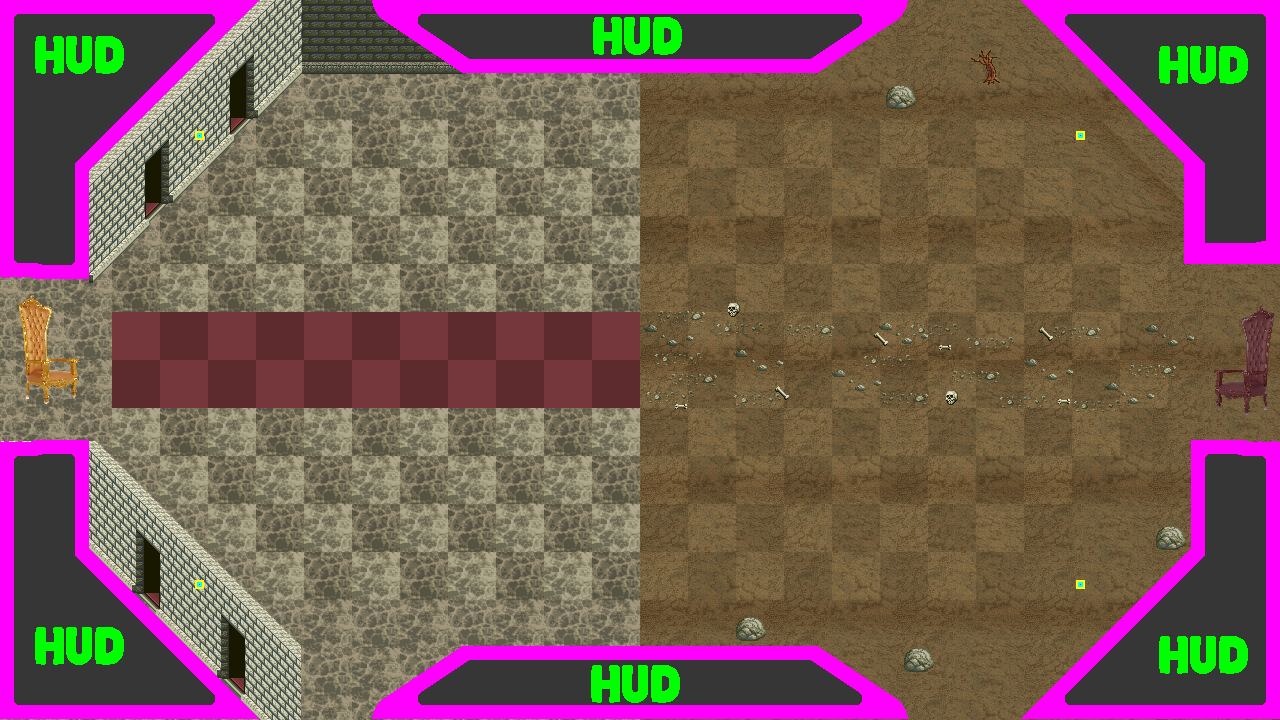
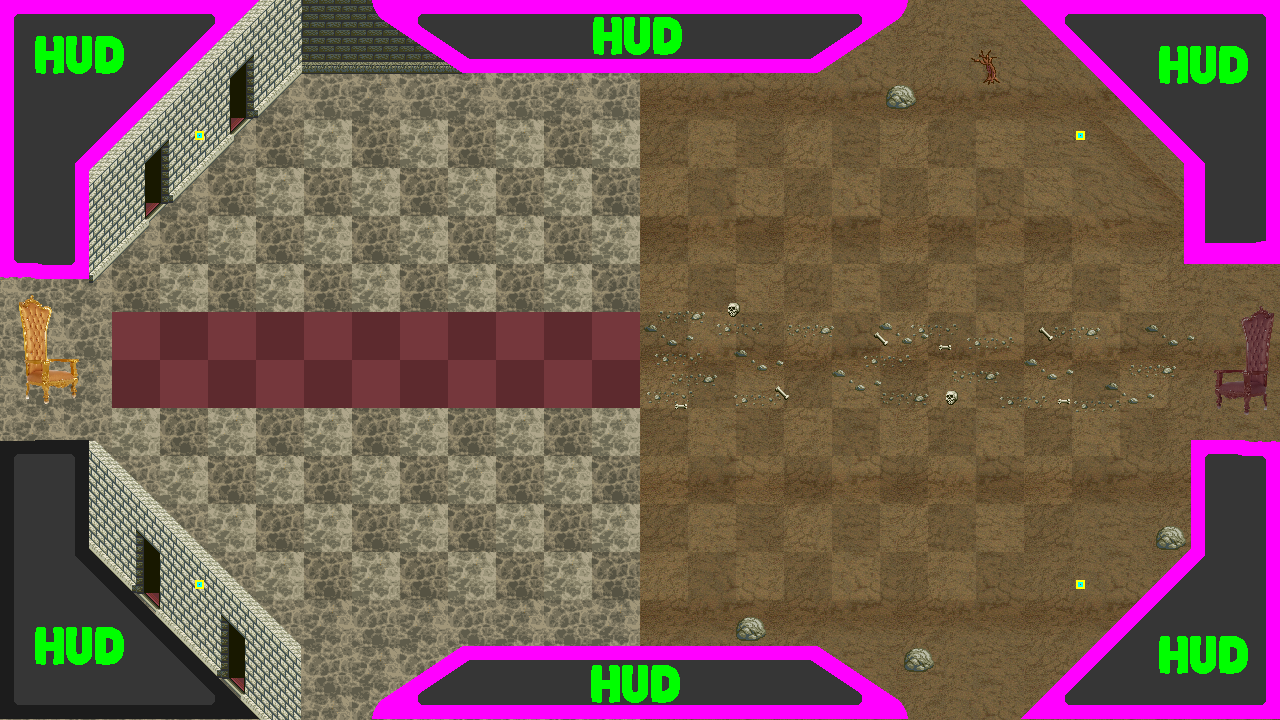
Expanding game screen ui, custom end turn button, stubbed out move and summon buttons

Changed region(s): [[0.0, 0.6111, 0.2188, 1.0]]

diff --git a/core/src/main/java/lando/systems/ld55/ui/ImageButton.java b/core/src/main/java/lando/systems/ld55/ui/ImageButton.java
@@ -1,6 +1,8 @@
 package lando.systems.ld55.ui;
 
+import com.badlogic.gdx.graphics.Color;
 import com.badlogic.gdx.graphics.g2d.Animation;
+import com.badlogic.gdx.graphics.g2d.NinePatch;
 import com.badlogic.gdx.graphics.g2d.SpriteBatch;
 import com.badlogic.gdx.graphics.g2d.TextureRegion;
 import com.badlogic.gdx.math.Circle;
@@ -9,6 +11,7 @@ import com.badlogic.gdx.math.Vector3;
 import com.badlogic.gdx.utils.Array;
 
 public class ImageButton {
+    public NinePatch background;
     public Animation<TextureRegion> image;
     public Animation<TextureRegion> imageHovered;
     public Animation<TextureRegion> imagePressed;
@@ -16,6 +19,7 @@ public class ImageButton {
     public TextureRegion keyframe;
     public Rectangle bounds;
     public Circle boundsCircle;
+    public Color color;
 
     public Runnable onClick = null;
     public float stateTime = 0f;
@@ -30,12 +34,19 @@ public class ImageButton {
 
     public ImageButton(float x, float y, float w, float h, TextureRegion image, TextureRegion imageHovered, TextureRegion imagePressed, TextureRegion imageDisabled) {
         this.bounds = new Rectangle(x, y, w, h);
-        var radius = w / 2f;
+        var radius = Math.min(w, h) / 2f;
         this.boundsCircle = new Circle(x + radius, y + radius, radius);
         this.image = new Animation<>(0.1f, Array.with(image), Animation.PlayMode.LOOP);
-        this.imageHovered = new Animation<>(0.1f, Array.with(imageHovered), Animation.PlayMode.LOOP);
-        this.imagePressed = new Animation<>(0.1f, Array.with(imagePressed), Animation.PlayMode.LOOP);
-        this.imageDisabled = new Animation<>(0.1f, Array.with(imageDisabled), Animation.PlayMode.LOOP);
+        if (imageHovered != null) {
+            this.imageHovered = new Animation<>(0.1f, Array.with(imageHovered), Animation.PlayMode.LOOP);
+        }
+        if (imagePressed != null) {
+            this.imagePressed = new Animation<>(0.1f, Array.with(imagePressed), Animation.PlayMode.LOOP);
+        }
+        if (imageDisabled != null) {
+            this.imageDisabled = new Animation<>(0.1f, Array.with(imageDisabled), Animation.PlayMode.LOOP);
+        }
+        this.color = Color.WHITE.cpy();
         updateKeyFrame();
     }
 
@@ -46,6 +57,9 @@ public class ImageButton {
     }
 
     public void update(float dt, Vector3 touchPos, boolean isPressed, boolean isDisabled) {
+        pressed = false;
+        hovered = false;
+
         disabled = isDisabled;
         if (!disabled) {
             if (boundsCircle.contains(touchPos.x, touchPos.y)) {
@@ -66,13 +80,34 @@ public class ImageButton {
 
     public void render(SpriteBatch batch) {
         if (keyframe == null) return; // just to be safe, update probably gets called before render first frame
-        batch.draw(keyframe, bounds.x, bounds.y, bounds.width, bounds.height);
+
+        batch.setColor(color);
+        if (background != null) {
+            background.draw(batch, bounds.x, bounds.y, bounds.width, bounds.height);
+        }
+
+        var margin = 8f;
+        batch.draw(keyframe,
+            bounds.x + margin,
+            bounds.y + margin,
+            bounds.width - 2f * margin,
+            bounds.height - 2 * margin);
+        batch.setColor(1, 1, 1, 1);
     }
 
     private void updateKeyFrame() {
-        keyframe = disabled ? imageDisabled.getKeyFrame(stateTime)
-            : hovered ? imageHovered.getKeyFrame(stateTime)
-            : pressed ? imagePressed.getKeyFrame(stateTime)
-            : image.getKeyFrame(stateTime);
+        color.set(Color.WHITE);
+        keyframe = image.getKeyFrame(stateTime);
+
+        if (disabled) {
+            if (imageDisabled != null) keyframe = imageDisabled.getKeyFrame(stateTime);
+            else                       color.set(Color.DARK_GRAY);
+        } else if (pressed) {
+            if (imagePressed != null) keyframe = imagePressed.getKeyFrame(stateTime);
+            else                      color.set(Color.LIME);
+        } else if (hovered) {
+            if (imageHovered != null) keyframe = imageHovered.getKeyFrame(stateTime);
+            else                      color.set(Color.SKY);
+        }
     }
 }

diff --git a/core/src/main/java/lando/systems/ld55/ui/GameScreenUI.java b/core/src/main/java/lando/systems/ld55/ui/GameScreenUI.java
@@ -5,22 +5,35 @@ import com.badlogic.gdx.Input;
 import com.badlogic.gdx.graphics.g2d.SpriteBatch;
 import com.badlogic.gdx.math.Vector3;
 import lando.systems.ld55.actions.ActionManager;
+import lando.systems.ld55.assets.Assets;
 import lando.systems.ld55.screens.GameScreen;
 
 public class GameScreenUI {
 
     public final GameScreen screen;
     public final ImageButton endTurnButton;
+    public final ImageButton summonButton;
+    public final ImageButton moveButton;
     public final Vector3 touchPos = new Vector3();
 
     public GameScreenUI(GameScreen screen) {
         this.screen = screen;
-        endTurnButton = new ImageButton(15, 15, 125, 125,
-            screen.assets.atlas.findRegion("icons/end-turn-btn"),
-            screen.assets.atlas.findRegion("icons/end-turn-btn-hover"),
-            screen.assets.atlas.findRegion("icons/end-turn-btn-press"),
-            screen.assets.atlas.findRegion("icons/end-turn-btn-disabled"));
+        endTurnButton = new ImageButton(15, 15, 200, 125,
+            screen.assets.atlas.findRegion("icons/finish-turn-btn"),
+            screen.assets.atlas.findRegion("icons/finish-turn-btn-hovered"),
+            screen.assets.atlas.findRegion("icons/finish-turn-btn-pressed"),
+            screen.assets.atlas.findRegion("icons/finish-turn-btn-disabled"));
         endTurnButton.onClick = () -> screen.actionManager.endTurn();
+
+        var summonIcon = screen.assets.atlas.findRegion("icons/kenney-board-game/pawns");
+        summonButton = new ImageButton(20, 280 - 70, 50, 50, summonIcon, null, null, null);
+        summonButton.background = Assets.Patch.glass_dim.ninePatch;
+        summonButton.onClick = () -> Gdx.app.log("summon", "clicked");
+
+        var moveIcon = screen.assets.atlas.findRegion("icons/kenney-board-game/arrow_diagonal_cross");
+        moveButton = new ImageButton(20, 280 - 130, 50, 50, moveIcon, null, null, null);
+        moveButton.background = Assets.Patch.glass_dim.ninePatch;
+        moveButton.onClick = () -> Gdx.app.log("move", "clicked");
     }
 
     public void update(float dt) {
@@ -30,9 +43,14 @@ public class GameScreenUI {
         var pressed = Gdx.input.isButtonPressed(Input.Buttons.LEFT);
         var disabled = screen.actionManager.getCurrentPhase() != ActionManager.Phase.CollectActions;
         endTurnButton.update(dt, touchPos, pressed, disabled);
+
+        summonButton.update(dt, touchPos, pressed, false);
+        moveButton.update(dt, touchPos, pressed, false);
     }
 
     public void render(SpriteBatch batch) {
         endTurnButton.render(batch);
+        summonButton.render(batch);
+        moveButton.render(batch);
     }
 }
